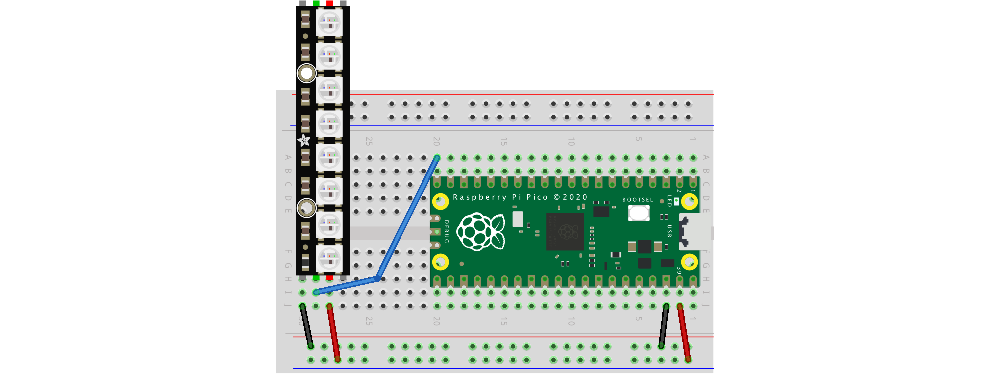
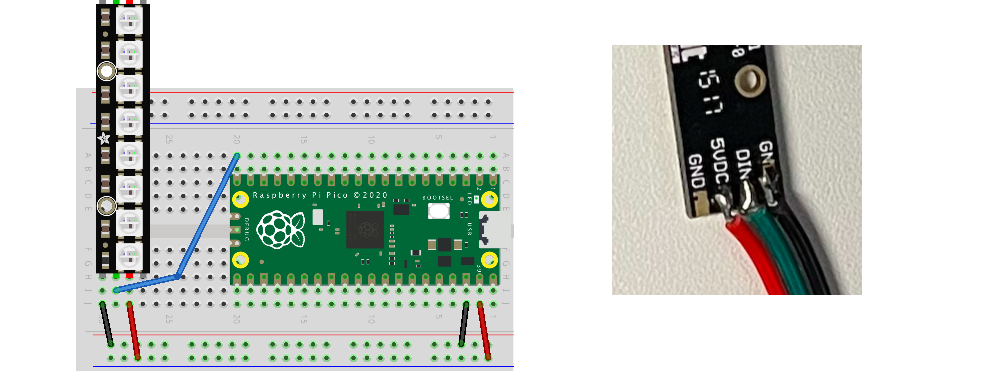
Update documentation.  Compile for CircuitPython 9.x

diff --git a/src/pixelstrip.py b/src/pixelstrip.py
@@ -282,6 +282,7 @@ class Animation:
     """
 
     def __init__(self, name=None):
+        self._param = None
         self._timeout = None
         self._name = name
 
@@ -306,6 +307,10 @@ class Animation:
         The delta_time is the number of seconds since the last draw call.
         """
         pass
+
+    @property
+    def param(self):
+        return self._param
 
     @property
     def timeout(self):

diff --git a/src/colors.py b/src/colors.py
@@ -1,4 +1,4 @@
-# Copyright (c) 2023, Keith Rieck
+# Copyright (c) 2024, Keith Rieck
 # All rights reserved.
 
 ALICEBLUE = (0xF0, 0xF8, 0xFF, 0x00)

diff --git a/src/i2cp.py b/src/i2cp.py
@@ -1,4 +1,4 @@
-# Copyright (c) 2023, Keith Rieck
+# Copyright (c) 2024, Keith Rieck
 # All rights reserved.
 
 from machine import mem32

diff --git a/documentation/p020_pixelstrip_intro.md b/documentation/p020_pixelstrip_intro.md
@@ -2,7 +2,7 @@
 
 PixelStrip is a [CircuitPython](https://circuitpython.org/) module for controlling WS2812 RGB LEDs on the [Adafruit Feather RP2040](https://www.adafruit.com/product/4884).  These LEDs are also known as  [NeoPixels](https://learn.adafruit.com/adafruit-neopixel-uberguide). The PixelStrip library allows you to add Animations to the strip.  Multiple strips can have separate animations that run in parallel.
 
-Wire up your Neopixels (WS2812B LEDs) to power, ground, and digital input. In the following example we will use `board.D12` for digital input.
+Wire up your Neopixels (WS2812B LEDs) to power, ground, and digital input. In the following example we will use `board.D12` for digital input. The red power wire usually connects to a pin labeled "VCC" or "+5V", the black ground wire connects to a pin named "GND", and the digital input wire connects to "IN" or "DIN".
 
 ![pixelstrip_setup](./img/pixelstrip_setup_bb_feather.png)
 
@@ -76,7 +76,7 @@ while True:
 
 PixelStrip is a [CircuitPython](https://circuitpython.org/) module for controlling WS2812 RGB LEDs microcontroller boards, including the [Raspberry Pi Pico](https://www.raspberrypi.com/products/raspberry-pi-pico/).  These LEDs are also known as  [NeoPixels](https://learn.adafruit.com/adafruit-neopixel-uberguide). The PixelStrip library allows you to add Animations to the strip.  Multiple strips can have separate animations that run in parallel.
 
-Wire up your Neopixels (WS2812B LEDs) to power, ground, and digital input. In the following example we will use `board.GP15` for digital input.
+Wire up your Neopixels (WS2812B LEDs) to power, ground, and digital input. In the following example we will use `board.GP15` for digital input. The red power wire usually connects to a pin labeled "VCC" or "+5V", the black ground wire connects to a pin named "GND", and the digital input wire connects to "IN" or "DIN".
 
 ![pixelstrip_setup](./img/pixelstrip_setup_pico.png)
 

diff --git a/documentation/doc_animation.md b/documentation/doc_animation.md
@@ -39,10 +39,20 @@ class MyAnimation(pixelstrip.Animation):
 
 ## Properties
 
+### param
+
+```python
+anim.param = 'Hello world'
+```
+
+The `param` property is an optional parameter that can influence the `Animation`.
+For instance, it might be a string to display on a matrix.  It could be a number of pixels to display or an 
+indicator of the color to diaplay.
+
 ### timeout
 
 ```python
-self.timeout = 0.5   # Nmber of seconds
+anim.timeout = 0.5   # Nmber of seconds
 ```
 Setting the `timeout` property to a number of seconds means that the `Animation` will be timed out that many
 seconds in the future.  Setting `timeout` to `None` clears the timeout.
